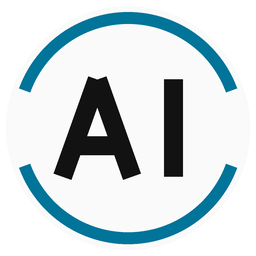
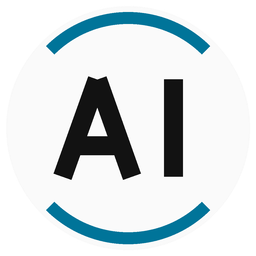
Make the ring gaps actually meet the 90 deg minimum they document
Copilot review caught a real defect on #10: `ai_composite` left 40 deg gaps, not
the ">=90 deg" the module docstring, commit message and PR body all claimed. It
was worse than a wrong comment — the previous artwork used 50 deg gaps, so this
change had *narrowed* them while asserting the opposite. The one legibility claim
the redraw was supposed to fix was the one it regressed.

`ai_manipulated` was correct at 90 deg; only the composite arcs were wrong.

Rather than correct the literal angles and leave the same trap in place, the break
patterns are now built from MIN_RING_GAP by `side_gaps()` and `bottom_gap()`, so
the geometry cannot drift from the constant that documents it. `check_gaps()`
recomputes every gap at generation time and refuses to write artwork that violates
the minimum, which catches a hand-edit back to literal angles.

At 20 px the difference is decisive: 40 deg reads as a nearly closed ring and is
confusable with `ai_generated`; 90 deg reads as two clear arcs while still reading
as a ring. 110 deg was tried and loses the ring character.

Also strengthens the distinctness test, which Copilot flagged for running at 32 px
when `AI_LABEL_MIN_SIZE` defaults to 20. It now runs at both, composites onto
mid-grey so a translucency difference cannot stand in for a visible one, and
asserts a floor on mean greyscale difference between every pair of states.

The floor matters because byte-distinctness had no teeth: it passed at 40, 50, 70
[…]

diff --git a/tests/test_icons_compose.py b/tests/test_icons_compose.py
@@ -1,7 +1,9 @@
 from __future__ import annotations
 
+import itertools
+
 import pytest
-from PIL import Image
+from PIL import Image, ImageChops, ImageStat
 
 from thumbor_ai_label.compose import (
     Layout,
@@ -228,6 +230,18 @@ def test_a_margin_that_swallows_the_frame_yields_no_label():
     assert label_height((10, 10), layout) is None
 
 
+#: The smallest label the plugin will draw, per AI_LABEL_MIN_SIZE's default.
+MIN_LABEL_SIZE = 20
+
+#: Mean absolute greyscale difference below which two states have collapsed into each
+#: other. This is a collapse detector, not a measurement of ring geometry: the >=90 deg
+#: gap constraint is enforced exactly by MIN_RING_GAP and check_gaps() in
+#: tools/make_icons.py, which is the only place it can be checked as an angle rather
+#: than inferred from pixels. The measured worst pair is ~15, so this leaves roughly 2x
+#: headroom for deliberate design changes before the test needs revisiting.
+COLLAPSE_FLOOR = 8.0
+
+
 class TestIconSets:
     def test_every_bundled_set_loads_all_states(self):
         for name in BUNDLED_SETS:
@@ -272,11 +286,34 @@ class TestIconSets:
             assert icons.aspect(state) == pytest.approx(1.0, abs=0.01)
 
     @pytest.mark.parametrize("name", ["default", "default-light"])
-    def test_each_default_state_is_visually_distinct(self, name):
-        """Ring silhouettes differ, so the set survives greyscale and colour blindness."""
+    @pytest.mark.parametrize("size", [MIN_LABEL_SIZE, 32])
+    def test_each_default_state_is_visually_distinct(self, name, size):
+        """Survives greyscale printing and colour blindness at the smallest label drawn.
+
+        Asserted at 20 px as well as a comfortable size, because 20 px is where a ring
+        break pattern is at risk of closing up under the downscale — and where the set
+        previously failed while still passing a distinctness check run at 32 px.
+        """
         icons = IconSet(icon_set=name)
-        greyscale = {state: icons.get(state, 32).convert("LA").tobytes() for state in LABEL_STATES}
-        assert len(set(greyscale.values())) == len(LABEL_STATES)
+
+        rendered = {}
+        for state in LABEL_STATES:
+            icon = icons.get(state, size)
+            # Composited onto mid-grey: the discs are translucent, and comparing raw
+            # RGBA would let an alpha difference stand in for a visible one.
+            ground = Image.new("RGBA", icon.size, (128, 128, 128, 255))
+            ground.alpha_composite(icon)
+            rendered[state] = ground.convert("L")
+
+        assert len({image.tobytes() for image in rendered.values()}) == len(LABEL_STATES)
+
+        for first, second in itertools.combinations(LABEL_STATES, 2):
+            difference = ImageChops.difference(rendered[first], rendered[second])
+            mean = ImageStat.Stat(difference).mean[0]
+            assert mean >= COLLAPSE_FLOOR, (
+                f"{first.value} and {second.value} are within {mean:.1f} mean grey levels "
+                f"at {size}px in the {name!r} set"
+            )
 
     def test_composite_uses_the_modified_mark(self):
         """A composite containing AI elements is 'partially modified with AI'."""

diff --git a/tools/make_icons.py b/tools/make_icons.py
@@ -38,16 +38,58 @@ SUPERSAMPLE = 4  # PIL does not antialias; draw big and downsample instead.
 
 OUT = pathlib.Path(__file__).resolve().parent.parent / "ai-labels"
 
+#: Minimum ring gap, in degrees. On a 20 px icon - the smallest label the plugin will
+#: draw - the ring's circumference is only ~50 px, so a 50 deg gap is barely 7 px of arc
+#: and closes up under the downscale, leaving hue as the only cue. Both break patterns
+#: below are built from this constant rather than written as literal angles, so the
+#: constraint cannot quietly drift away from the docstring that states it.
+MIN_RING_GAP = 90
+
+
+def side_gaps(width):
+    """Two arcs, leaving gaps of `width` degrees centred on the left and right."""
+    half = width / 2
+    return ((180 + half, 360 - half), (half, 180 - half))
+
+
+def bottom_gap(width):
+    """One arc, leaving a gap of `width` degrees centred on the bottom."""
+    half = width / 2
+    return ((90 + half, 90 - half),)
+
+
+CLOSED = ((0, 360),)
+
 #: Ring arcs per state, as (start, end) angle pairs in PIL's convention
 #: (0 deg = 3 o'clock, increasing clockwise). The silhouettes are deliberately
 #: far apart: a closed ring, a horseshoe open at the bottom, and two arcs facing
 #: each other across open sides.
 RINGS = {
-    "ai_generated": ((0, 360),),
-    "ai_manipulated": ((135, 45),),
-    "ai_composite": ((200, 340), (20, 160)),
-    "unknown": ((0, 360),),
+    "ai_generated": CLOSED,
+    "ai_manipulated": bottom_gap(MIN_RING_GAP),
+    "ai_composite": side_gaps(MIN_RING_GAP),
+    "unknown": CLOSED,
 }
+
+
+def check_gaps():
+    """Fail loudly if any break pattern violates MIN_RING_GAP.
+
+    Construction from the constant already guarantees this; the check exists so that
+    hand-editing an arc back to literal angles is caught at generation time rather than
+    shipping as artwork whose legibility silently regressed.
+    """
+    for state, arcs in RINGS.items():
+        if arcs == CLOSED:
+            continue
+        spans = sorted(((s % 360, (e + 360 if e <= s else e) - s) for s, e in arcs))
+        for i, (start, length) in enumerate(spans):
+            gap = (spans[(i + 1) % len(spans)][0] - (start + length)) % 360
+            if gap + 1e-9 < MIN_RING_GAP:
+                raise SystemExit(
+                    f"{state}: ring gap of {gap:g} deg is below the "
+                    f"{MIN_RING_GAP} deg minimum; it will close up at 20 px"
+                )
 
 
 class Palette:
@@ -195,6 +237,7 @@ def build(state: str, palette: Palette) -> Image.Image:
 
 
 def main():
+    check_gaps()
     for palette in (DARK, LIGHT):
         out = OUT / palette.name
         out.mkdir(parents=True, exist_ok=True)
